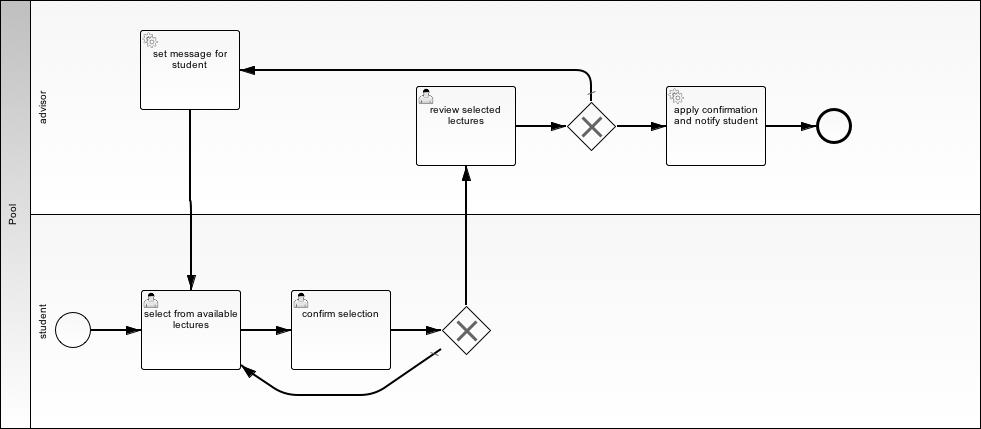
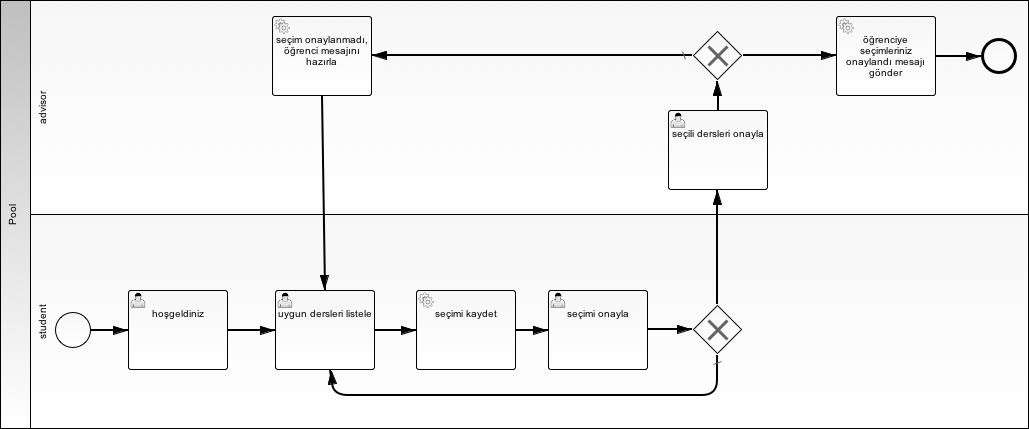
ulakbusu gelistirmek...

diff --git a/source/_static/css/style.css b/source/_static/css/style.css
@@ -190,3 +190,7 @@ ul.navbar-nav {
 p.plantuml{
     text-align: center;
 }
+
+p{
+    margin: 10px 10px !important;
+}

diff --git a/source/ulakbusu-gelistirmek.rst b/source/ulakbusu-gelistirmek.rst
@@ -21,8 +21,9 @@ Aşağıdaki adımları izleyerek Ulakbüs projesine öğrencilerin ders seçmes
 Geliştirme ortamının kurulumu
 ***********************************************************************************
 
-Geliştirmeye başlamak için **git** ve **vagrant** araçlarına ihtiyacımız olacak.
-Ulakbüs projesinin parçası olarak, geliştiriciler için hazırlanan vagrant sanal makinası ile gerekli ortam hazır olarak gelmektedir. (link eklenecek)
+Geliştirmeye başlamak için öncelikle **Camunda Modeller**, **git** ve **Vagrant** araçlarına ihtiyacımız olacak.
+Camunda Modeller ile iş akışı diagramlarımızı hazırlayacağız. (link eklenecek)
+Ulakbüs projesinin parçası olarak, geliştiriciler için hazırlanan vagrant sanal makinası ile gerekli ortam hazır olarak gelmektedir. (belgeye link verilecek)
 
 
 View, Task ve Model dosyalarının konumları
@@ -66,13 +67,22 @@ View, task ve model modülleri, proje kök dizininde yer alan ``views``, ``tasks
 İş akışlarının tasarlanması.
 ***********************************************************************************
 
+Ulakbüs projesinin üzerine inşa edildiği ZEngine frameworkü BPMN 2.0 standardıyla tanımlanmış olan iş akışı ögelerinin uygulama işlevselliği için elzem olan kısımlarını desteklemektedir. Bunlardan UserTask, ServiceTask ve Exclusive (XOR) Gateway'ler en çok kullanacağımız ögelerin başında gelmektedir.
+
+BPMN standardı bu öglerin temel işlev ve ilişkilerini tanımlamış olsa da, iş akışlarının işletilmesi noktasında birçok tercihi uygulama geliştiricilere bırakmıştır.
+
 Yukarıda maddelendirdiğimiz iş akışının BPMN 2.0 uyumlu bir diagram şekline getirilmiş halini aşağıda görebilirsiniz.
 
 
 .. image:: _static/du_bpmn_lecture_selection.png
 
 
+
 Advisor lane'inin boş bir yerine tıklayarak bu lane'in özelliklerini görüntüleyebilirsiniz. Extensions bölümüne girebileceğiniz parametereler ve işlevleri aşağıda listelenmiştir.
+
+
+.. image:: _static/du_bpmn_lane_properties.png
+
 
 ``relations`` parametresi iş akışında rol alan kullanıcıların birbirleri ile olan ilişkilerini kısıtlayıcı şekilde tanımlamak için kullanılır. Yukarıdaki örnekte **advisor** laneninin kullanıcısının student lane'inin kullanıcısının **danisman** ı olması gerektiği belirtilmiştir. Bu alana girilen parametrelerin geçerli Python kodu olması ve True mantıksal değerini döndürmesi gerekmektedir. Tanımlanması isteğe bağlıdır.
 
@@ -87,44 +97,21 @@ Advisor lane'inin boş bir yerine tıklayarak bu lane'in özelliklerini görünt
 
 
 
-.. image:: _static/du_bpmn_lane_properties.png
-
 
 
 Modellerin tanımlanması.
 ***********************************************************************************
 
-Yukarıda gösterdiğimiz "Öğrenci Ders Seçme" akışı için önceki bölümde ele aldığımız Student, Lecture ve Lecturer modellerini "dersler.py" gibi geçerli bir isimle models dizinine kaydedip, ``models/__init__.py`` içine import etmemiz yeterli olacaktır.
+Yukarıda gösterdiğimiz "Öğrenci Ders Seçme" akışı için önceki bölümde ele aldığımız Student, Lecture ve Lecturer modellerini "lectures.py" gibi geçerli bir isimle models dizinine kaydedip, ``models/__init__.py`` içine import etmemiz yeterli olacaktır.
 
-::
-
-    # ulakbus/models/lectures.py
-
-    from pyoko import Model, field
-    from .ogrenci import Ogrenci
+.. literalinclude:: ../../ulakbus/ulakbus/models/lectures.py
+    :linenos:
+    :lines: 1, 6-
 
 
-    class Lecture(Model):
-        name = field.String("Ders adı", index=True)
-        credit = field.Integer("Kredisi", default=0, index=True)
-
-
-    class StudentLectures(Model):
-        lecture = Lecture()
-        student = Ogrenci()
-        confirmed = field.Boolean("Onaylandı", default=False)
-
-
-
-::
-
-    # ulakbus/models/__init__.py
-
-    from .personel import *
-    from .auth import *
-    from .ogrenci import *
-    from .hitap import *
-    from .lectures import *
+.. literalinclude:: ../../ulakbus/ulakbus/models/__init__.py
+    :linenos:
+    :lines: 1, 6-
 
 
 Basit bir view fonksiyonu hazırlayalım
@@ -140,3 +127,16 @@ sdsd
 CrudView'ı genişletmek
 ***********************************************************************************
 
+.. literalinclude:: ../../ulakbus/ulakbus/views/lectures/select.py
+    :linenos:
+    :lines: 1, 6-
+
+
+.. literalinclude:: ../../ulakbus/ulakbus/views/lectures/student_review.py
+    :linenos:
+    :lines: 1, 6-
+
+
+.. literalinclude:: ../../ulakbus/ulakbus/views/lectures/advisor_review.py
+    :linenos:
+    :lines: 1, 6-
